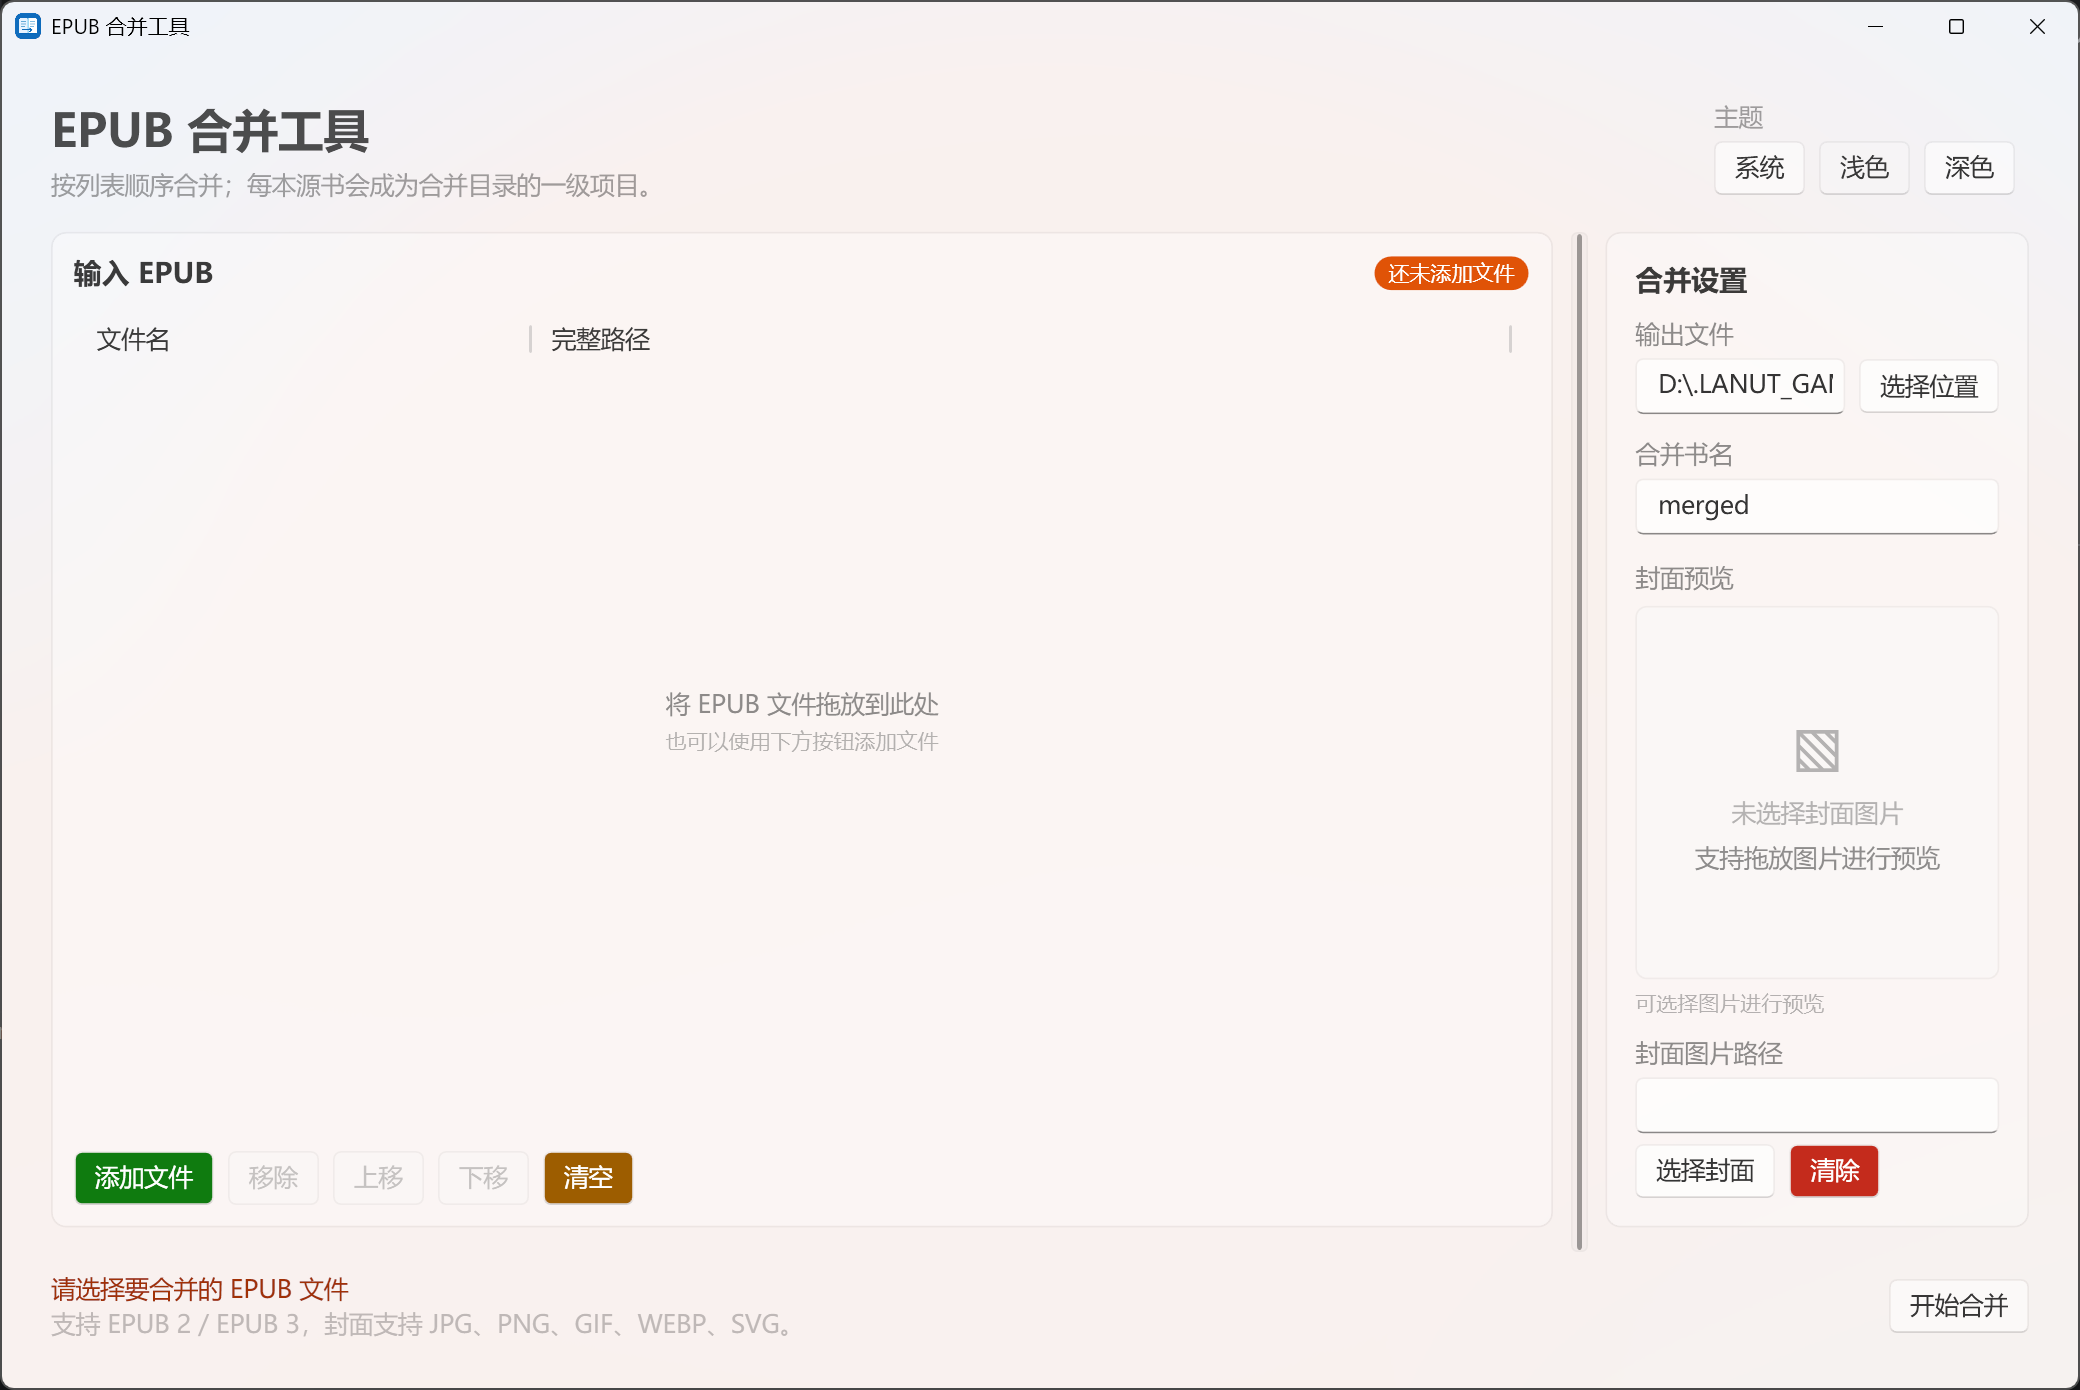
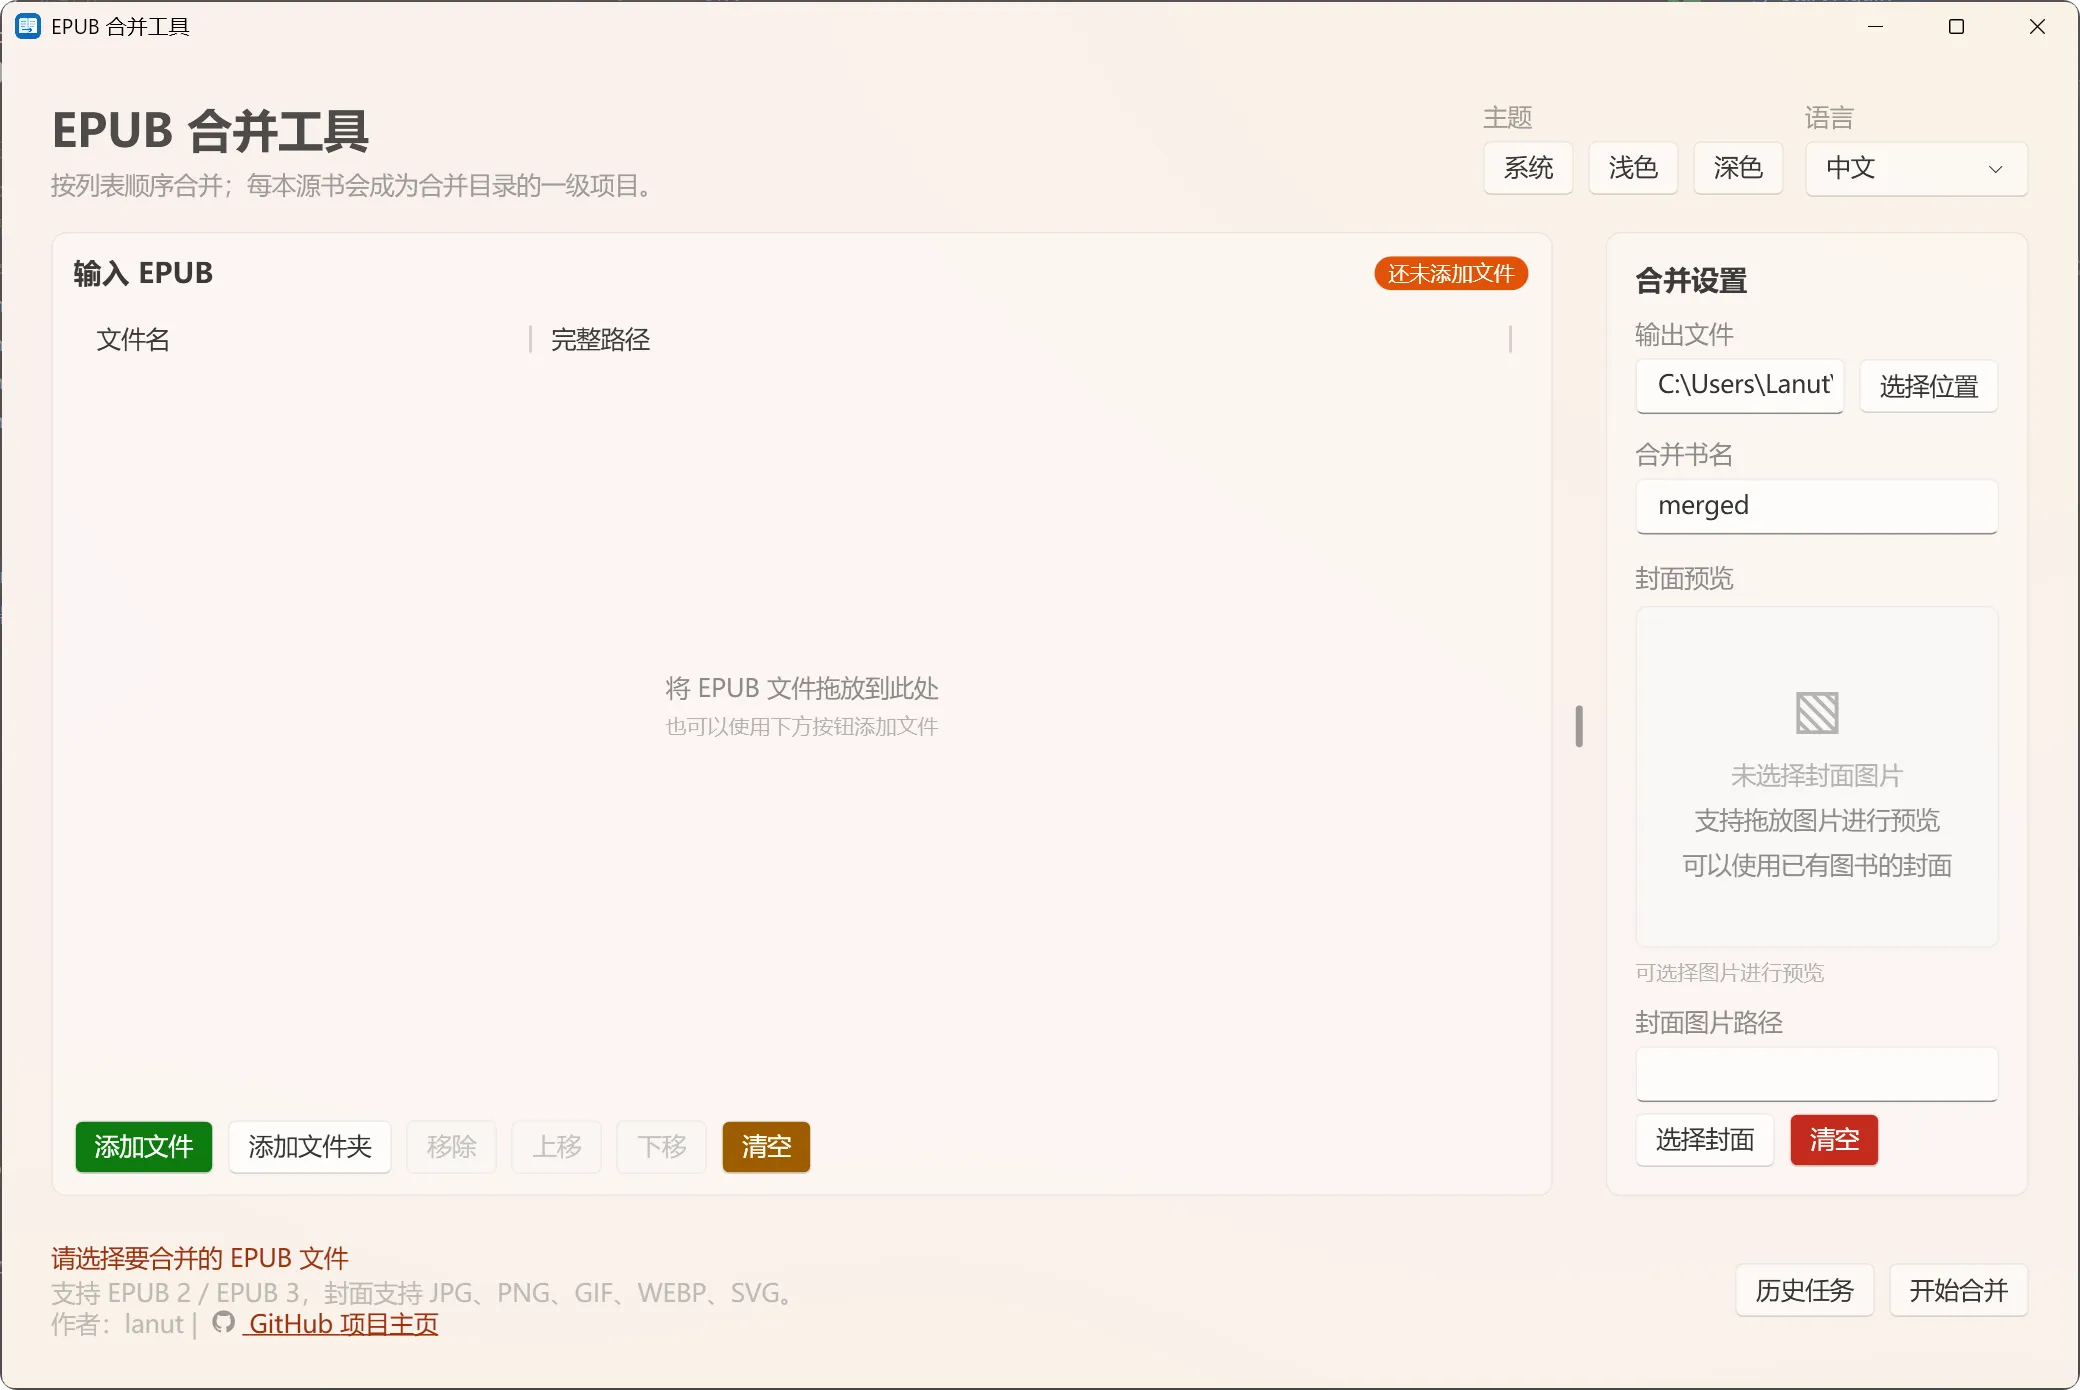
更新readme文件

diff --git a/README.en.md b/README.en.md
@@ -1,0 +1,130 @@
+# EPUB Merger
+
+[中文文档](README.md)
+
+A simple Windows desktop EPUB merger built with WPF and .NET 10. It combines multiple EPUB files into a single EPUB 3 file in the specified order, while keeping each source book as a top-level item in the merged contents. The application supports drag-and-drop ordering, custom titles and output paths, cover preview, bilingual UI, and system, light, and dark themes.
+
+## Screenshots
+
+### Light theme (empty state)
+
+![Empty application window in the light theme](readmeRef/photo_01_en.webp)
+
+### Dark theme (empty state)
+
+![Empty application window in the dark theme](readmeRef/photo_02_en.webp)
+
+### Application in use
+
+![Application window with multiple EPUB files and a cover loaded](readmeRef/photo_03_en.webp)
+
+## Features
+
+- Add multiple EPUB files and reorder them by drag and drop or buttons
+- Remove selected files or clear the list
+- Support EPUB 2 and EPUB 3 input files
+- Keep each source book as a top-level item in the merged contents
+- Customize the output file path and merged title
+- Select or drop a cover image and preview it
+- Extract and export a cover image from a source EPUB
+- Import EPUB files from folders, including recursive subfolder scanning
+- Sort inputs naturally, by name, or keep the original order
+- Restore recent tasks
+- Cancel a merge while it is running
+- Open the output file or its containing folder after a successful merge
+- Support JPG, JPEG, PNG, GIF, WEBP, and SVG covers
+- Switch between system, light, and dark themes
+- Switch the interface between Chinese and English at runtime
+- Display localized merge and cover-reading errors while recording detailed logs for troubleshooting
+- Show merge progress and synchronize it with the taskbar progress indicator
+- Automatically generate the EPUB 3 container, navigation page, and table of contents
+- Handle duplicate resource names to prevent files from being overwritten
+
+## Usage
+
+1. Start the application.
+2. Click **Add Files**, or drag EPUB files into the list on the left.
+3. Select files and use **Move Up** or **Move Down** to adjust the merge order.
+4. Set the output file, merged title, and optional cover image on the right.
+5. Click **Start Merge**.
+6. Wait for the status bar to report completion, then find the generated EPUB file at the configured output location.
+
+The output file must use the `.epub` extension and must not overwrite an input file.
+
+## CLI mode
+
+The published GUI executable also supports command-line mode without creating a window. Use `--cli` or `-c` to enter CLI mode:
+
+```powershell
+EpubMerge.Gui.exe --cli -i .\vol*.epub -o .\merged.epub --title "Collection"
+EpubMerge.Gui.exe -c -d .\books -r -o .\merged.epub --sort natural
+EpubMerge.Gui.exe --cli -i .\one.epub .\two.epub -o .\merged.epub --cover-from-index 1
+```
+
+Common options:
+
+- `-i`/`--input`: input EPUB files, wildcards, or a list of paths
+- `-d`/`--directory`: scan a directory; use `-r`/`--recursive` to scan subdirectories
+- `-o`/`--output`: output EPUB path (required)
+- `--cover`: specify an external cover image, or use `--cover-from-index N` to select an embedded cover from the Nth book
+- `--sort natural|name|none`: natural sort, name sort, or preserve input order
+- `-q`/`--quiet`, `-v`/`--verbose`: control log output
+- `-h`/`--help`, `--version`: display help or version information
+
+CLI exit codes are `0` (success), `1` (argument or input validation failure), and `2` (runtime error or cancellation).
+
+## Requirements
+
+- Windows
+- .NET 10 Desktop Runtime
+
+## Build
+
+Run the following commands from the repository root:
+
+```powershell
+dotnet restore EpubMerge.slnx
+dotnet build EpubMerge.slnx
+dotnet test EpubMerge.slnx
+```
+
+Run the GUI project:
+
+```powershell
+dotnet run --project src/EpubMerge.Gui/EpubMerge.Gui.csproj
+```
+
+## GitHub Actions release
+
+The repository includes a GitHub Actions workflow. Pushing to `master` or opening a pull request automatically restores dependencies, builds the project, and runs the tests.
+
+To publish a release, create and push a tag beginning with `V`, for example:
+
+```powershell
+git tag V1.0.0
+git push origin V1.0.0
+```
+
+The workflow creates four archives on a Windows runner: self-contained and framework-dependent packages for both `win-x64` and `win-arm64`. Framework-dependent packages require the .NET 10 Desktop Runtime on the target machine.
+
+## Project structure
+
+```text
+src/
+  EpubMerge.Core.Pure/  EPUB validation and merge logic
+  EpubMerge.Gui/        WPF graphical interface
+tests/
+  EpubMerge.Core.Tests/ Core logic tests
+  EpubMerge.Gui.Tests/  ViewModel tests
+readmeRef/              README screenshots
+```
+
+## Notes
+
+- The merged result is an EPUB 3 container with regenerated navigation and table-of-contents information.
+- Encrypted or font-obfuscated EPUB files containing `META-INF/encryption.xml` are not currently supported.
+- Source files are read only; the application does not modify the original EPUB files.
+
+## License
+
+This project is licensed under the terms in [LICENSE](LICENSE).

diff --git a/README.md b/README.md
@@ -1,5 +1,7 @@
 # EPUB 合并工具
 
+[English](README.en.md)
+
 一个简洁的 Windows EPUB 合并桌面工具，基于 WPF 和 .NET 10 构建。它可以将多本 EPUB 按指定顺序合并为一个 EPUB 3 文件，并保留每本源书作为合并目录中的一级项目。应用支持拖放排序、自定义书名与输出路径、封面预览，以及系统、浅色和深色主题，适合整理连载小说、系列电子书和分卷内容。
 
 ## 界面预览
@@ -27,6 +29,9 @@
 - 支持从源 EPUB 提取、导出封面图片
 - 支持文件夹批量导入、自然排序和最近任务恢复
 - 合并过程中可取消任务，完成后可直接打开文件或所在文件夹
+- 支持命令行模式，可进行批量合并和自动化处理
+- 支持中英文界面运行时切换
+- 合并失败和封面读取错误提供本地化提示，并记录详细日志便于排查
 - 支持 JPG、JPEG、PNG、GIF、WEBP、SVG 封面
 - 支持系统、浅色和深色主题
 - 合并过程中显示进度，并同步显示任务栏进度
